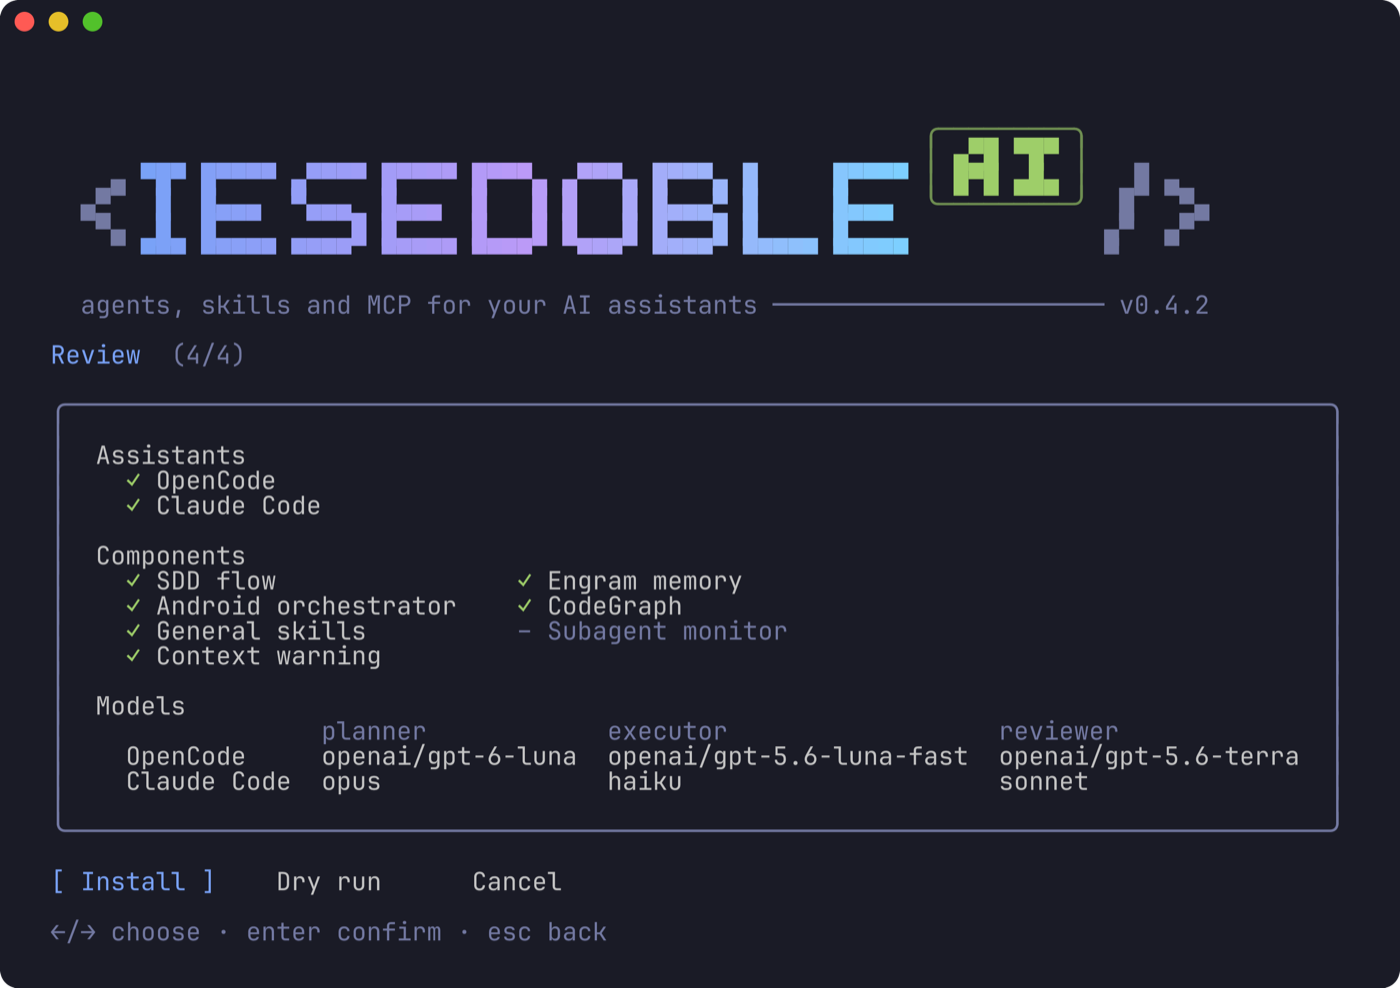
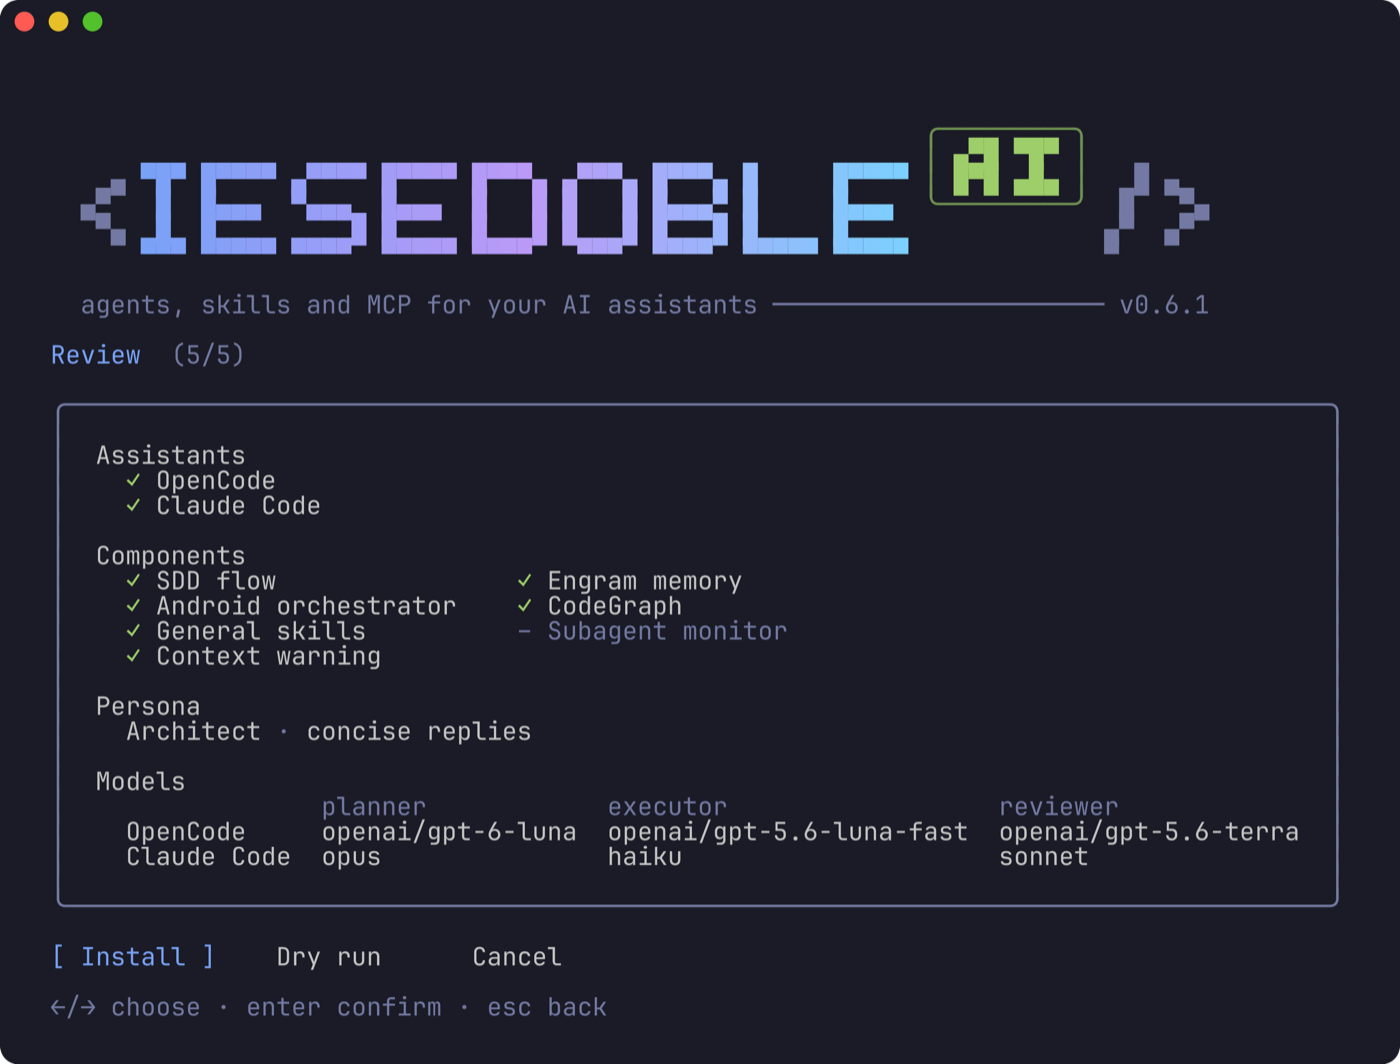
feat(tui): dedicated persona step with an explanation of each option

diff --git a/internal/tui/tui.go b/internal/tui/tui.go
@@ -37,6 +37,7 @@ const (
 	scMenu screen = iota
 	scTargets
 	scComponents
+	scPersona
 	scModels
 	scReview
 	scChecking
@@ -195,6 +196,7 @@ type Model struct {
 	detected   []string
 	targets    checklist
 	components checklist
+	persona    checklist   // persona choice and concise style
 	values     []string    // chosen model per modelKeys entry; empty until chosen
 	modelKeys  [][2]string // target, profile
 	modelFocus int         // row on the models screen; one past the last is Continue
@@ -252,11 +254,13 @@ func New() Model {
 		{key: "engram", label: "Engram memory", desc: "persistent memory MCP and plugin", checked: comps.Engram},
 		{key: "codegraph", label: "CodeGraph", desc: "code graph MCP", checked: comps.CodeGraph},
 		{key: "subagent-monitor", label: "Subagent monitor", desc: "OpenCode subagent statusline that Engram adds; off removes it", checked: comps.SubagentMonitor},
-		{key: "persona-none", label: "None", desc: "your assistant's default voice; adds no tokens",
-			checked: comps.SelectedPersona() == "none", group: "persona", section: "Persona"},
+	}
+	m.persona.items = []item{
 		{key: "persona-architect", label: "Architect",
 			desc:    "senior architect: verifies before agreeing, challenges with evidence, one question at a time (~300 tokens)",
 			checked: comps.SelectedPersona() == "architect", group: "persona", section: "Persona"},
+		{key: "persona-none", label: "None", desc: "your assistant's default voice; adds no tokens",
+			checked: comps.SelectedPersona() == "none", group: "persona", section: "Persona"},
 		{key: "concise", label: "Concise",
 			desc:    "caveman-style replies: answer first, no filler, code and errors verbatim; cuts output tokens (~600 tokens)",
 			checked: comps.Concise, section: "Style"},
@@ -320,7 +324,7 @@ func (m Model) options() installer.Options {
 	opts := installer.Options{Targets: m.targets.checked(), DryRun: m.dryRun,
 		Models: map[string]render.Models{}}
 	comps := map[string]bool{}
-	for _, k := range m.components.checked() {
+	for _, k := range append(m.components.checked(), m.persona.checked()...) {
 		comps[k] = true
 	}
 	opts.Components = installer.Components{SDD: comps["sdd"], Android: comps["android"], Skills: comps["skills"],
@@ -674,11 +678,14 @@ func (m Model) handleKey(msg tea.KeyMsg, key string) (tea.Model, tea.Cmd) {
 				return m, tea.Quit
 			}
 		}
-	case scTargets, scComponents:
+	case scTargets, scComponents, scPersona:
 		list := &m.targets
 		next, prev := scComponents, scMenu
-		if m.screen == scComponents {
-			list, next, prev = &m.components, scModels, scTargets
+		switch m.screen {
+		case scComponents:
+			list, next, prev = &m.components, scPersona, scTargets
+		case scPersona:
+			list, next, prev = &m.persona, scModels, scComponents
 		}
 		switch key {
 		case "enter":
@@ -701,7 +708,7 @@ func (m Model) handleKey(msg tea.KeyMsg, key string) (tea.Model, tea.Cmd) {
 		vis := m.visibleModels()
 		switch key {
 		case "esc":
-			m.screen = scComponents
+			m.screen = scPersona
 		case "up", "k", "shift+tab":
 			if m.modelFocus > 0 {
 				m.modelFocus--
@@ -789,13 +796,19 @@ func (m Model) View() string {
 		b.WriteString(m.menuView())
 		b.WriteString("\n  " + subtle.Render("↑/↓ move · enter select · q quit"))
 	case scTargets:
-		b.WriteString(title.Render("Assistants") + subtle.Render("  (1/4)") + "\n\n" + m.targets.view())
+		b.WriteString(title.Render("Assistants") + subtle.Render("  (1/5)") + "\n\n" + m.targets.view())
 		b.WriteString(help("space toggle · a all · enter next · esc back"))
 	case scComponents:
-		b.WriteString(title.Render("Components") + subtle.Render("  (2/4)") + "\n\n" + m.components.view())
+		b.WriteString(title.Render("Components") + subtle.Render("  (2/5)") + "\n\n" + m.components.view())
 		b.WriteString(help("space toggle · a all · enter next · esc back"))
+	case scPersona:
+		b.WriteString(title.Render("Persona") + subtle.Render("  (3/5) how your assistant talks to you") + "\n\n" + m.persona.view())
+		if d := personaDetails[m.persona.items[m.persona.cursor].key]; len(d) > 0 {
+			b.WriteString("\n" + box.Render(strings.Join(d, "\n")) + "\n")
+		}
+		b.WriteString(help("↑/↓ move · space choose · enter next · esc back"))
 	case scModels:
-		b.WriteString(title.Render("Models") + subtle.Render("  (3/4) planner: orchestrators and planning · executor: worker, device, apply · reviewer: review, verify") + "\n\n")
+		b.WriteString(title.Render("Models") + subtle.Render("  (4/5) planner: orchestrators and planning · executor: worker, device, apply · reviewer: review, verify") + "\n\n")
 		switch {
 		case !m.modelsReady():
 			b.WriteString(m.spin.View() + " Listing the available models…\n")
@@ -829,7 +842,7 @@ func (m Model) View() string {
 			b.WriteString(help("↑/↓ move · enter choose · esc back"))
 		}
 	case scReview:
-		b.WriteString(title.Render("Review") + subtle.Render("  (4/4)") + "\n\n" + box.Render(m.reviewView()) + "\n\n")
+		b.WriteString(title.Render("Review") + subtle.Render("  (5/5)") + "\n\n" + box.Render(m.reviewView()) + "\n\n")
 		buttons := []string{"Install", "Dry run", "Cancel"}
 		for i, btn := range buttons {
 			if i == m.review {
@@ -900,6 +913,34 @@ func (m Model) View() string {
 		b.WriteString(help("enter menu · q quit"))
 	}
 	return b.String() + "\n"
+}
+
+// personaDetails explain the option under the cursor on the persona step.
+var personaDetails = map[string][]string{
+	"persona-architect": {
+		"Talks like a senior architect who cares that you understand:",
+		"• verifies before agreeing and corrects you with evidence",
+		"• one question at a time; alternatives only at a real fork",
+		"• pushes back on code without context; teaches in depth only when you ask",
+		"",
+		"Cost: ~300 tokens, loaded once from AGENTS.md / CLAUDE.md.",
+	},
+	"persona-none": {
+		"Keeps your assistant's own voice: nothing is added to AGENTS.md / CLAUDE.md.",
+		"",
+		"Cost: no tokens.",
+	},
+	"concise": {
+		"Caveman-style replies, adapted from caveman (Apache-2.0):",
+		"• answer first; no greetings, hedging or recaps",
+		"• code, commands, paths and errors stay verbatim",
+		"• full sentences for warnings, irreversible actions and questions",
+		"",
+		"Before: \"Sure! I'd be happy to help. The issue is likely caused by…\"",
+		"After:  \"Bug in auth middleware. Expiry check uses `<` not `<=`. Fix:\"",
+		"",
+		"Cost: ~600 tokens of rules; it cuts output tokens, the expensive ones.",
+	},
 }
 
 // menuView is the links, the install status and the menu options.
@@ -1066,7 +1107,7 @@ func (m Model) reviewView() string {
 		b.WriteString(strings.TrimRight(line, " ") + "\n")
 	}
 	persona, style := "None", "normal"
-	for _, it := range m.components.items {
+	for _, it := range m.persona.items {
 		switch {
 		case it.group == "persona" && it.checked:
 			persona = it.label

diff --git a/internal/tui/tui_test.go b/internal/tui/tui_test.go
@@ -32,7 +32,7 @@ func TestModelsScreen(t *testing.T) {
 	for i := range m.targets.items {
 		m.targets.items[i].checked = true
 	}
-	m.screen = scComponents
+	m.screen = scPersona
 	m = press(t, m, enter)
 	if m.screen != scModels || m.modelsReady() {
 		t.Fatalf("screen %d, ready %v", m.screen, m.modelsReady())
@@ -90,7 +90,7 @@ func TestPickerWithoutList(t *testing.T) {
 	for i := range m.targets.items {
 		m.targets.items[i].checked = m.targets.items[i].key == "opencode"
 	}
-	m.screen = scComponents
+	m.screen = scPersona
 	m = press(t, m, enter)
 	next, _ := m.Update(modelsMsg{lists: map[string][]string{"opencode": nil}, errs: map[string]string{"opencode": "opencode models: timed out after 60s"}})
 	m = next.(Model)
@@ -186,19 +186,19 @@ func TestPersonaChoice(t *testing.T) {
 	if opts := m.options(); opts.Components.Persona != "architect" || !opts.Components.Concise {
 		t.Fatalf("defaults: %+v", opts.Components)
 	}
-	for i, it := range m.components.items {
+	for i, it := range m.persona.items {
 		if it.key == "persona-none" {
-			m.components.cursor = i
+			m.persona.cursor = i
 		}
 	}
-	m.components.update(" ")
-	m.components.update(" ") // selecting a choice twice keeps it selected
+	m.persona.update(" ")
+	m.persona.update(" ") // selecting a choice twice keeps it selected
 	opts := m.options()
 	if opts.Components.Persona != "none" {
 		t.Errorf("persona after choosing None: %q", opts.Components.Persona)
 	}
 	selected := 0
-	for _, it := range m.components.items {
+	for _, it := range m.persona.items {
 		if it.group == "persona" && it.checked {
 			selected++
 		}
@@ -206,11 +206,40 @@ func TestPersonaChoice(t *testing.T) {
 	if selected != 1 {
 		t.Errorf("%d personas selected", selected)
 	}
-	m.components.update("a") // toggling all leaves the persona choice alone
+	m.persona.update("a") // toggling all leaves the persona choice alone
 	if m.options().Components.Persona != "none" {
 		t.Error("toggle-all changed the persona")
 	}
-	if view := m.components.view(); !strings.Contains(view, "(•) None") || !strings.Contains(view, "Persona") || !strings.Contains(view, "Style") {
+	if view := m.persona.view(); !strings.Contains(view, "(•) None") || !strings.Contains(view, "Persona") || !strings.Contains(view, "Style") {
 		t.Errorf("components view:\n%s", view)
+	}
+}
+
+func TestPersonaStep(t *testing.T) {
+	t.Setenv("HOME", t.TempDir())
+	m := New()
+	m.screen = scComponents
+	m = press(t, m, enter)
+	if m.screen != scPersona {
+		t.Fatalf("components should lead to the persona step, got %d", m.screen)
+	}
+	view := m.View()
+	for _, want := range []string{"(3/5)", "Architect", "verifies before agreeing and corrects you with evidence", "~300 tokens"} {
+		if !strings.Contains(view, want) {
+			t.Errorf("persona step missing %q:\n%s", want, view)
+		}
+	}
+	m = press(t, m, down, down) // onto Concise: its explanation replaces the architect's
+	if view := m.View(); !strings.Contains(view, "Before:") || strings.Contains(view, "corrects you with evidence") {
+		t.Errorf("details for Concise:\n%s", view)
+	}
+	m = press(t, m, tea.KeyMsg{Type: tea.KeyEsc})
+	if m.screen != scComponents {
+		t.Errorf("esc should go back to components, got %d", m.screen)
+	}
+	for _, it := range m.components.items {
+		if it.group != "" || it.key == "concise" {
+			t.Errorf("components still list %q", it.key)
+		}
 	}
 }

diff --git a/docs/install-and-usage.md b/docs/install-and-usage.md
@@ -106,12 +106,11 @@ iesedoble-ai version
 iesedoble-ai
 ```
 
-Choose **Install or update** and go through the four steps. Move with `↑`/`↓`, toggle with
+Choose **Install or update** and go through the five steps. Move with `↑`/`↓`, toggle with
 `space`, continue with `enter`, go back with `esc`.
 
 1. **Assistants.** The ones found on this machine are marked as detected and preselected.
-2. **Components.** All but the subagent monitor are selected by default, with the Architect
-   persona and the Concise style:
+2. **Components.** All but the subagent monitor are selected by default:
 
    | Component | What it adds |
    |---|---|
@@ -122,15 +121,22 @@ Choose **Install or update** and go through the four steps. Move with `↑`/`↓
    | Engram memory | Persistent memory MCP server and plugin |
    | CodeGraph | Code graph MCP server |
    | Subagent monitor | Keeps the OpenCode subagent statusline that Engram's setup adds. Off by default: the installer removes it from `tui.json` and `cli.json`, after a backup |
-   | Persona: None / Architect | The voice of every reply, added once to `AGENTS.md` / `CLAUDE.md`. Architect verifies before agreeing, challenges with evidence and asks one question at a time (~300 tokens). None keeps your assistant's default voice |
-   | Concise | Caveman-style replies: answer first, no filler, code and errors verbatim. Cuts output tokens (~600 tokens of rules) |
 
-3. **Models.** One model per role and assistant: **planner** (orchestrators and planning),
+3. **Persona.** How your assistant talks to you, added once to `AGENTS.md` / `CLAUDE.md`. A panel
+   explains the option under the cursor, with what it changes and what it costs:
+
+   | Option | What it does |
+   |---|---|
+   | Architect (default) | Verifies before agreeing, corrects you with evidence, asks one question at a time and teaches in depth only when you ask (~300 tokens) |
+   | None | Keeps your assistant's own voice; adds nothing |
+   | Concise (on by default) | Caveman-style replies: answer first, no filler, code and errors verbatim, full sentences for warnings and questions. About 600 tokens of rules that cut output tokens, the expensive ones |
+
+4. **Models.** One model per role and assistant: **planner** (orchestrators and planning),
    **executor** (implementation and device work) and **reviewer** (review and verification).
    Press `enter` on a row to pick from the models the assistant offers, and type to filter.
    OpenCode lists the models of the providers you have connected; Claude Code offers `opus`,
    `sonnet`, `haiku`, `fable` and `inherit`. **Custom…** accepts any other model ID.
-4. **Review.** Check the summary and choose **Install**, or **Dry run** to see what would change
+5. **Review.** Check the summary and choose **Install**, or **Dry run** to see what would change
    without writing anything.
 
 Before writing, the installer shows the tools your selection needs. `✓` is present, `↓` will be

diff --git a/README.md b/README.md
@@ -82,18 +82,20 @@ go install github.com/iesedobleac/iesedoble-ai/cmd/iesedoble-ai@latest
 
 <table>
   <tr>
+    <td width="50%"><img src="docs/images/persona.png" alt="Choosing the persona and the concise style"></td>
     <td width="50%"><img src="docs/images/picker.png" alt="Choosing a model from the ones the assistant lists"></td>
-    <td width="50%"><img src="docs/images/review.png" alt="Review of the selection before installing"></td>
   </tr>
   <tr>
+    <td align="center"><b>Persona</b>: how your assistant talks to you, explained option by option</td>
     <td align="center"><b>Models</b>: listed from your assistant, filter as you type</td>
+  </tr>
+  <tr>
+    <td width="50%"><img src="docs/images/review.png" alt="Review of the selection before installing"></td>
+    <td width="50%"><img src="docs/images/install.png" alt="Install progress"></td>
+  </tr>
+  <tr>
     <td align="center"><b>Review</b>: everything that will be installed, at a glance</td>
-  </tr>
-  <tr>
-    <td colspan="2"><img src="docs/images/install.png" alt="Install progress"></td>
-  </tr>
-  <tr>
-    <td colspan="2" align="center"><b>Install</b>: every step, with progress</td>
+    <td align="center"><b>Install</b>: every step, with progress</td>
   </tr>
 </table>
 
